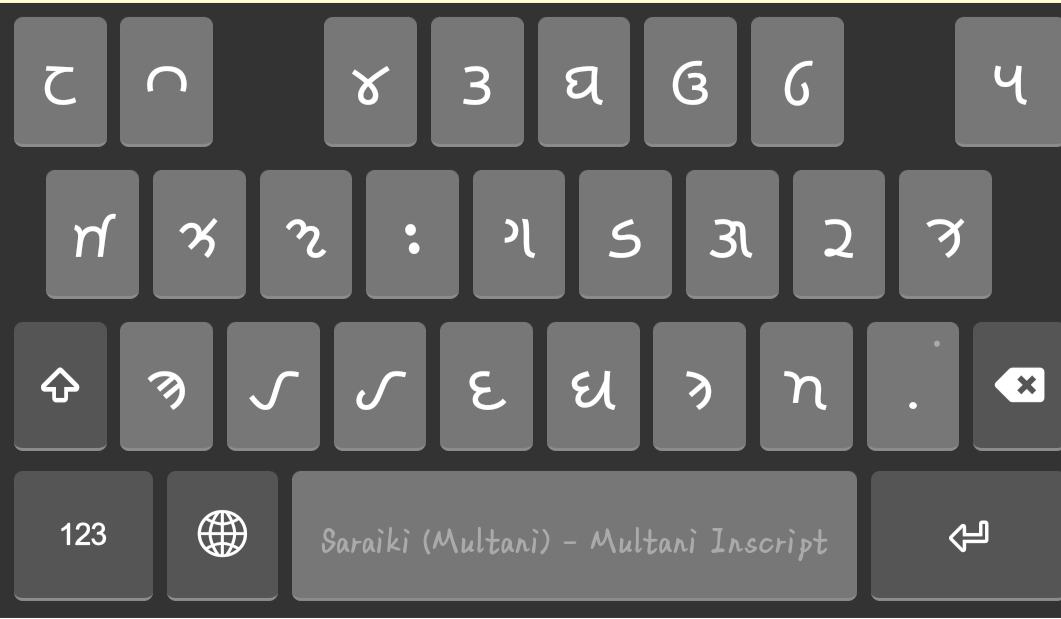
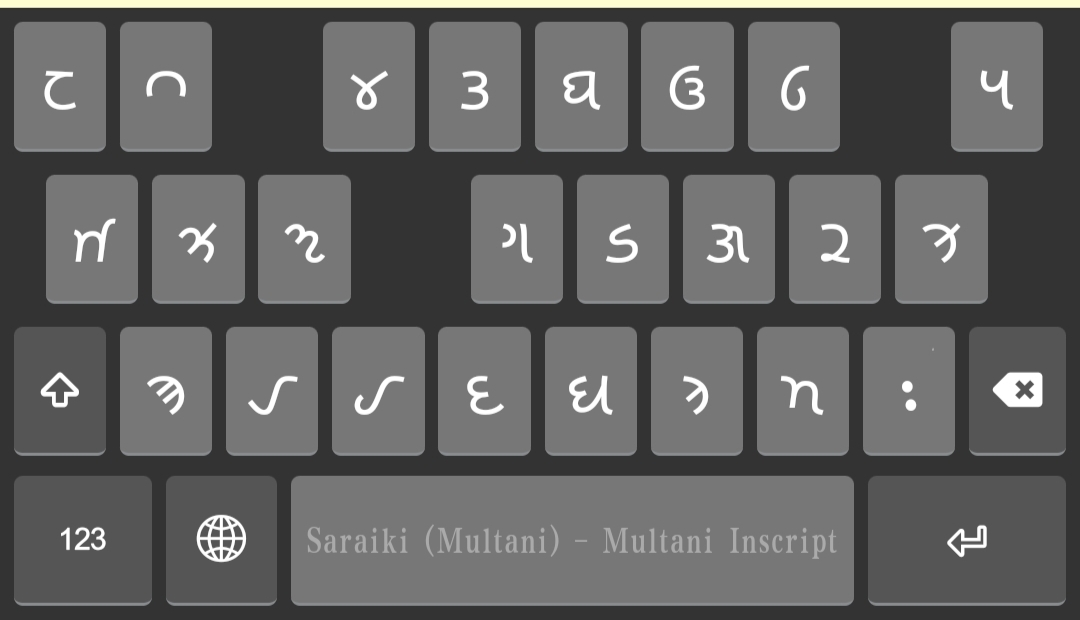
[multani_inscript] First update

diff --git a/release/m/multani_inscript/source/welcome.htm b/release/m/multani_inscript/source/welcome.htm
@@ -6,8 +6,8 @@
   <title>Start Using multani_inscript</title>
   <style type="text/css">
     p { font: 10pt Tahoma; }
-    h1 { font: bold 16pt Tahoma; color: #4444cc; margin-bottom: 2px }
-    h2 { font: bold 12pt Tahoma; color: #4444cc; }
+    h1 { font: bold 16pt Tahoma; color: #061d75; margin-bottom: 2px }
+    h2 { font: bold 12pt Tahoma; color: #061d75; }
   </style>
 </head>
 <body>
@@ -15,7 +15,7 @@
 <h1>Start Using multani_inscript</h1>
 
 <p>
-    This keyboard is designed for the Saraiki language, using the Multani script for an Inscript layout.
+    This keyboard is designed for the Saraiki language, using the Multani script with an Inscript layout.
 </p>
 
 <h1>Keyboard Layout</h1>

diff --git a/release/m/multani_inscript/source/readme.htm b/release/m/multani_inscript/source/readme.htm
@@ -15,7 +15,7 @@
 <h1>multani_inscript</h1>
 
 <p>
-    This keyboard is designed for the Saraiki language, using the Multani script for an Inscript layout.
+    This keyboard is designed for the Saraiki language, using the Multani script with an Inscript layout.
 </p>
 
 <p>© Joshua Wong</p>

diff --git a/release/m/multani_inscript/HISTORY.md b/release/m/multani_inscript/HISTORY.md
@@ -4,3 +4,8 @@ multani_inscript Change History
 1.0 (2022-09-09)
 ----------------
 * Created by Joshua Wong
+
+1.0.1 (2022-10-14)
+ Update:
+1. Fixed the desktop keyboard, now it will not produce Latin letters,
+2. Changed the keyboard layout.
